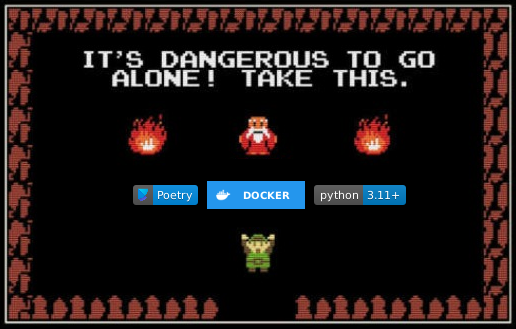
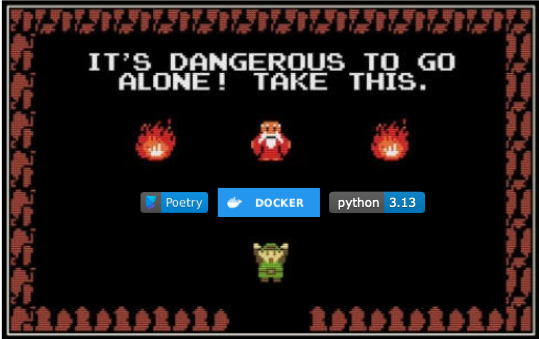
Update docs with Kasm Workspace info
Add Kasm Workspace information to the get started documentation

diff --git a/docs/workshop/1_hello_workshop.md b/docs/workshop/1_hello_workshop.md
@@ -21,13 +21,82 @@ RUNNING NOTES:
 11. CMD+SHIFT+P or Command+Shift+P --> Python: Select Interpreter -> select the `./.venv/...`
 12.
 
+!!! tip "Dev Environment Options"
+    === "Local Python, Docker Services"
+        This is the recommended way to participate in the workshop. It ensures you have gone through each step to prepare
+        your local dev environment to rapidly work with different python versions (via `pyenv`) and build, test, and
+        publish python wheels using `poetry`.
+
+
+    === "Docker Only"
+        For those who don't want to make any adjustments to their local dev environment beyond running Docker containers,
+        a Kasm Workspace with Ubuntu 22.04 Jammy Jellyfish and Python 3.13 is provided.
+
+        For those on a Unix operating system:
+            ```bash
+            chmod +x ./run_dev_desktop.sh
+            ./run_dev_desktop.sh <flag>
+            ```
+
+        For those on a Windows operating system with [Windows Subsystem for Linux (WSL) enabled](https://learn.microsoft.com/en-us/windows/wsl/install):
+            ```bash
+            bash run_dev_desktop.sh <flag>
+            ```
+
+        For those on an x86/AMD64 architecture CPU (Intel, AMD, etc.), running `run_dev_desktop.sh` without a flag will
+        pull the right image from GitHub. For those on an ARM architecture CPU (Mac M1, etc.), use the `-m` flag to pull
+        an ARM compiled workspace from Docker Hub. If neither options work, use the `-l` flag to locally build the image.
+        Please note that locally building the image may take several minutes to download and build.
+
+        The Kasm Workspace is accessible at [https://localhost:6901/](https://localhost:6901/)
+
+        **username**: kasm_user </br>
+        **password**: avengercon-2025
+
+        ![Kasm Workspace](1_images/kasm_workspace.png)
+
+        :material-alert-circle-check:{ .green } After successfully loging in for the first time, stop the deployment with `ctrl+c` or `⌘-c`
+        in the terminal used to run the script. Then uncomment the following lines in the appropriate 
+        `docker-compose-dev-container.<architecture>.yaml` file to get a live sync of the workshop files inside the
+        Kasm Workspace Ubuntu desktop. If you're using a visual IDE like VSCode or PyCharm, select the commented lines
+        and press `ctrl+/` or `⌘-/` to quickly uncomment.
+
+        ``` py linenums="1" hl_lines="18-21" title="docker-compose-dev-container.ARCHITECTURE.yaml"
+        services:
+          kasm:
+            container_name: kasm-ubuntu-desktop
+            image: brentstone/kasm-ubuntu-desktop:0.2025.1-arm
+            ports:
+              - target: 6901
+                published: 6901
+                mode: host
+            networks:
+              - avengercon-dev-desktop
+            volumes:
+              - type: volume
+                source: kasm-ubuntu-volume
+                target: /home/kasm-user
+                read_only: false
+              # Uncomment after initial build/run of the container to enable real-time synchronization between localhost and
+              # in container workshop files
+        #      - type: bind
+        #        source: ./
+        #        target: /home/kasm-user/Desktop/avengercon_2025/
+        #        read_only: false
+            environment:
+              # username is kasm_user
+              VNC_PW: avengercon-2025
+        ```
+
+        With the updated docker-compose file, re-run `run_dev_desktop.sh` as before (don't forget any flags) and log
+        back into the Kasm Workspace. You should now see an `avengercon_2025` folder in the Ubuntu desktop.
+
 
 You'll need the following software installed to begin:
 
 1. [Docker](https://docs.docker.com/engine/install/)
-2. [Python 3.11](https://www.python.org/downloads/)
+2. [Python 3.13](https://www.python.org/downloads/)
 3. [Git](https://git-scm.com/downloads)
-4. [Rust](https://rustup.rs/)
 
 !!! note "Optional software"
     === "Python interpreter manager"

diff --git a/README.md b/README.md
@@ -1,13 +1,21 @@
-# Avengercon IX Workshop <br> Python Data Engineering Automation
+# Avengercon IX Workshop <br> Python Data Pipelines and Parsers
 
 Repo Status </br>
 ![Tests](docs/badges/tests.svg)
 ![Coverage](docs/badges/coverage.svg)
 ![Interrogate](docs/badges/interrogate_badge.svg)
+[![Documentation](https://github.com/brent-stone/avengercon_2025/actions/workflows/docs.yml/badge.svg)](https://github.com/brent-stone/avengercon_2025/actions/workflows/docs.yml)
+[![Dev Desktop Image](https://github.com/brent-stone/avengercon_2025/actions/workflows/docker-publish.yml/badge.svg)](https://github.com/brent-stone/avengercon_2025/actions/workflows/docker-publish.yml)
 <!---
 Update the CI status to your repo's project name!
 https://docs.github.com/en/actions/monitoring-and-troubleshooting-workflows/adding-a-workflow-status-badge
 https://docs.gitlab.com/ee/user/project/badges.html#view-the-url-of-pipeline-badges
+-->
+<!---
+Helpful sites for repo badges
+https://shields.io/
+https://simpleicons.org
+https://github.com/NWylynko/react-simple-badges/blob/main/badges.md
 -->
 
 Tooling </br>
@@ -15,28 +23,30 @@ Tooling </br>
 [![Poetry](docs/badges/poetry.svg)](https://python-poetry.org/)
 [![Tox](docs/badges/tox.svg)](https://tox.wiki/)
 [![Black](docs/badges/black.svg)](https://black.readthedocs.io/en/stable/)
+[![Pre-Commit](docs/badges/precommit.svg)](https://pre-commit.com/)
 [![Safety](docs/badges/safety.svg)](https://github.com/pyupio/safety)
 [![Bandit](docs/badges/bandit.svg)](https://github.com/PyCQA/bandit)
+[![Codespell](docs/badges/codespell.svg)](https://github.com/codespell-project/codespell)
 
+[![Kasm Workspace](docs/badges/kasm.svg)](https://kasmweb.com/)
 [![Celery](docs/badges/celery.svg)](https://docs.celeryq.dev/en/stable/getting-started/introduction.html)
 [![Dask](docs/badges/dask.svg)](https://www.dask.org/)
-[![Prefect](docs/badges/prefect.svg)](https://www.prefect.io//)
+[![Redis Stack](docs/badges/redis.svg)](https://redis.io/docs/about/about-stack/)
 [![MinIO](docs/badges/minio.svg)](https://min.io/)
 [![mkdocs-material](docs/badges/mkdocs-material.svg)](https://squidfunk.github.io/mkdocs-material/)
 
-See [the documentation](https://brent-stone.github.io/avengercon_2025/) for information
-on using this repo. The [Avengercon conference](https://avengercon.com/)
-homepage has details about the event.
+**Workshop Date**: 26 February 2025
+
+The [Avenercon IX conference](https://avengercon.com/)
+homepage has details about the event where this workshop was held.
 
 ---
 This is a hands-on Python programming workshop. At least one year of recent Python
 experience, some experience with Docker, and a computer you administer is strongly
 recommended.
 
-Python's great power is rapid and comprehensible data analysis feeding tools like
-business intelligence (BI) dashboards and artificial intelligence (AI) models that help
-organizations make data-driven decisions. This workshop will prepare you to transition
-from initial (and likely haphazard) data analysis into understandable, scalable, and
-automated best practices for getting data into a place and format that provides value.
-Pydantic, Celery, and Dask will be covered with data input and output to a local MinIO
-S3 bucket.
+Python's great power is rapid and comprehensible data analysis feeding tools like business intelligence (BI) dashboards
+and artificial intelligence (AI) models that help organizations make data-driven decisions. This workshop will prepare 
+you to transition from initial (and likely haphazard) data analysis into understandable, scalable, and automated best 
+practices for getting data into a place and format that provides value. Pydantic, Celery, and Dask will be covered with 
+data input and output to a local MinIO S3 bucket.

diff --git a/docs/index.md b/docs/index.md
@@ -1,9 +1,11 @@
-# Avengercon VIII Workshop <br> Horizontally Scaling Python for Production
+# Avengercon IX Workshop <br> Python Data Pipelines and Parsers
 
 Repo Status </br>
 ![Tests](badges/tests.svg)
 ![Coverage](badges/coverage.svg)
 ![Interrogate](badges/interrogate_badge.svg)
+[![Documentation](https://github.com/brent-stone/avengercon_2025/actions/workflows/docs.yml/badge.svg)](https://github.com/brent-stone/avengercon_2025/actions/workflows/docs.yml)
+[![Dev Desktop Image](https://github.com/brent-stone/avengercon_2025/actions/workflows/docker-publish.yml/badge.svg)](https://github.com/brent-stone/avengercon_2025/actions/workflows/docker-publish.yml)
 <!---
 Update the CI status to your repo's project name!
 https://docs.github.com/en/actions/monitoring-and-troubleshooting-workflows/adding-a-workflow-status-badge
@@ -17,23 +19,25 @@ https://github.com/NWylynko/react-simple-badges/blob/main/badges.md
 -->
 
 Tooling </br>
-![Python](badges/python311.svg)
+![Python](badges/python313.svg)
 [![Poetry](badges/poetry.svg)](https://python-poetry.org/)
 [![Tox](badges/tox.svg)](https://tox.wiki/)
 [![Black](badges/black.svg)](https://black.readthedocs.io/en/stable/)
+[![Pre-Commit](badges/precommit.svg)](https://pre-commit.com/)
 [![Safety](badges/safety.svg)](https://github.com/pyupio/safety)
 [![Bandit](badges/bandit.svg)](https://github.com/PyCQA/bandit)
+[![Codespell](badges/codespell.svg)](https://github.com/codespell-project/codespell)
 
+[![Kasm Workspace](badges/kasm.svg)](https://kasmweb.com/)
 [![Celery](badges/celery.svg)](https://docs.celeryq.dev/en/stable/getting-started/introduction.html)
 [![Dask](badges/dask.svg)](https://www.dask.org/)
-[![Apache Beam](badges/beam.svg)](https://beam.apache.org/#)
 [![Redis Stack](badges/redis.svg)](https://redis.io/docs/about/about-stack/)
 [![MinIO](badges/minio.svg)](https://min.io/)
 [![mkdocs-material](badges/mkdocs-material.svg)](https://squidfunk.github.io/mkdocs-material/)
 
-**Workshop Date**: 28 February 2024
+**Workshop Date**: 26 February 2025
 
-The [Avenercon VIII conference](https://avengercon.com/)
+The [Avenercon IX conference](https://avengercon.com/)
 homepage has details about the event where this workshop was held.
 
 ---
@@ -41,13 +45,8 @@ This is a hands-on Python programming workshop. At least one year of recent Pyth
 experience, some experience with Docker, and a computer you administer is strongly
 recommended.
 
-Python can be challenging to use in production when "real-world" workloads involving
-megabits per second (Mbps) of streaming data or terabytes of stored data are involved.
-The Global Interpreter Lock (GIL) means that a Python interpreter is effectively
-single-threaded and can't take advantage of modern processors' capacity for parallel
-computation. Laterally scaling workloads across many Python interpreters is one of the
-most viable workarounds to the shortcomings of the GIL. This workshop will introduce you
-to two leading frameworks for doing this: Celery, Dask, and Apache Beam.
-This workshop will walk through establishing an Extract, Transform, Load (ETL) pipeline
-in each framework which reads and writes from Redis and a MinIO locally hosted S3
-bucket.
+Python's great power is rapid and comprehensible data analysis feeding tools like business intelligence (BI) dashboards
+and artificial intelligence (AI) models that help organizations make data-driven decisions. This workshop will prepare 
+you to transition from initial (and likely haphazard) data analysis into understandable, scalable, and automated best 
+practices for getting data into a place and format that provides value. Pydantic, Celery, and Dask will be covered with 
+data input and output to a local MinIO S3 bucket.
